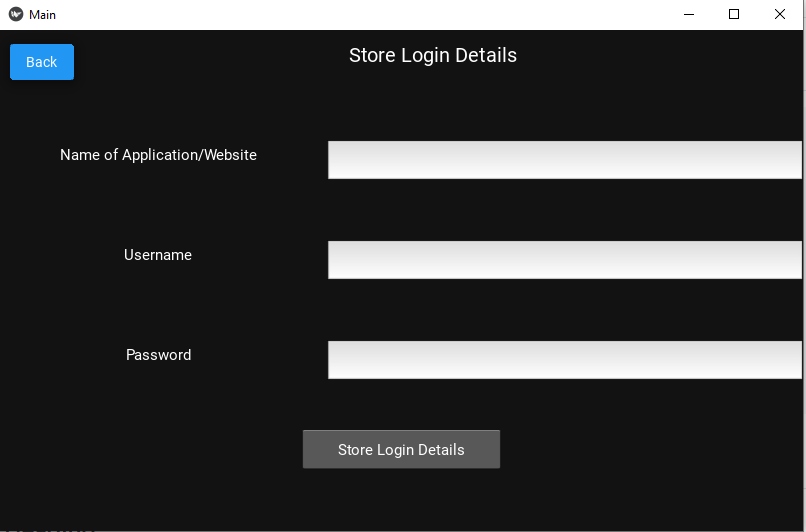
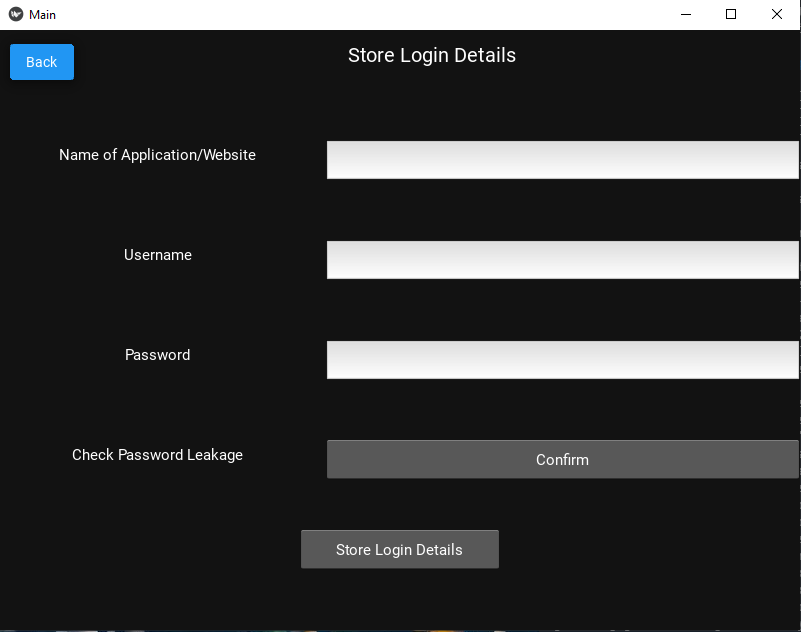
README: updated README.md to include pwned password look up section.

diff --git a/README.md b/README.md
@@ -31,6 +31,8 @@ python src/main.py
 2. Username
 3. Password
 
+<p>Users can also check their passwords against the pwned API to find out if their passwords have been compromised.</p>
+
 ### Password Generation
 
 ![Password Generation Image](src/Resources/PasswordGenerationImage.PNG "Password Generation Image")
